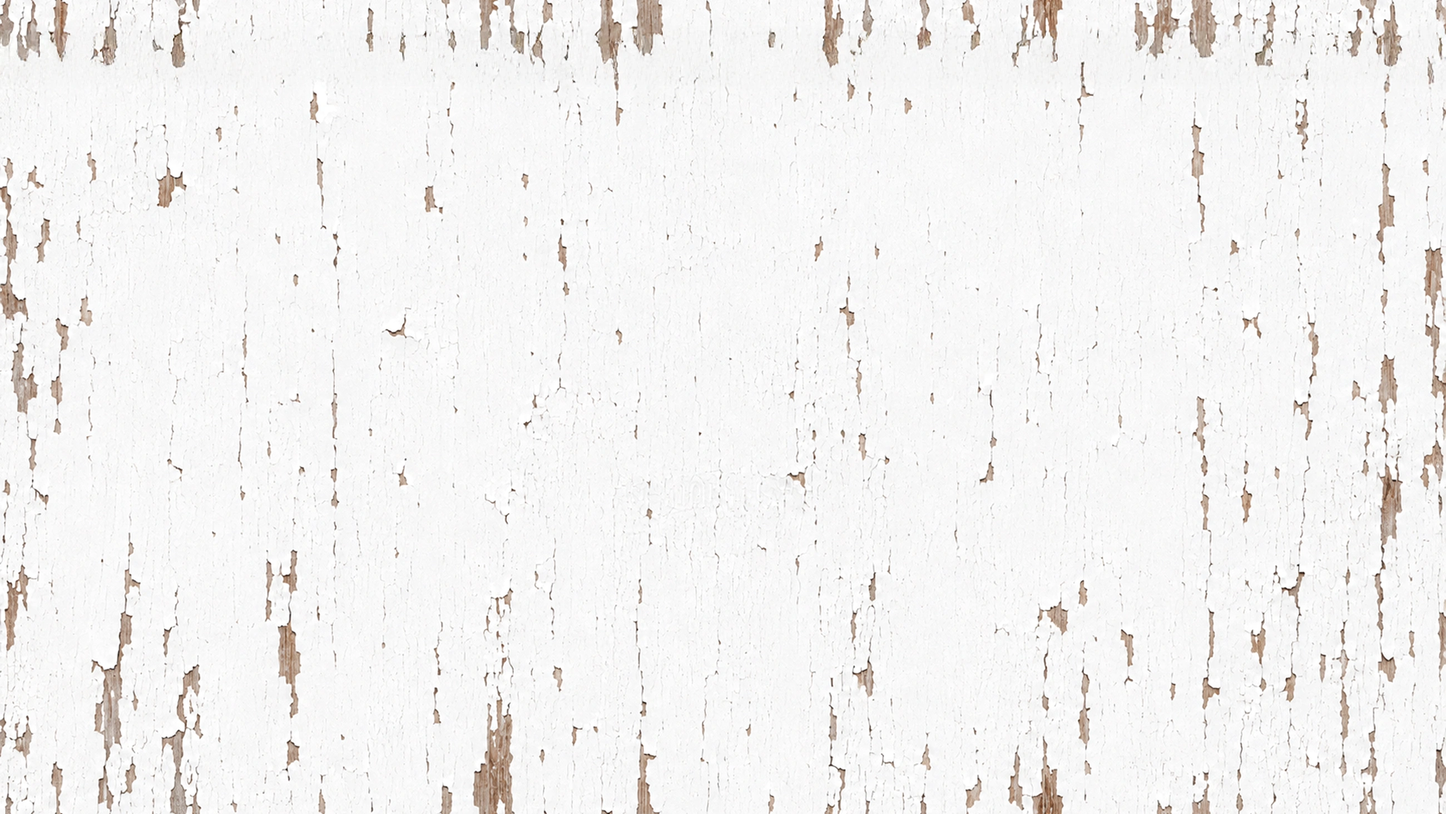
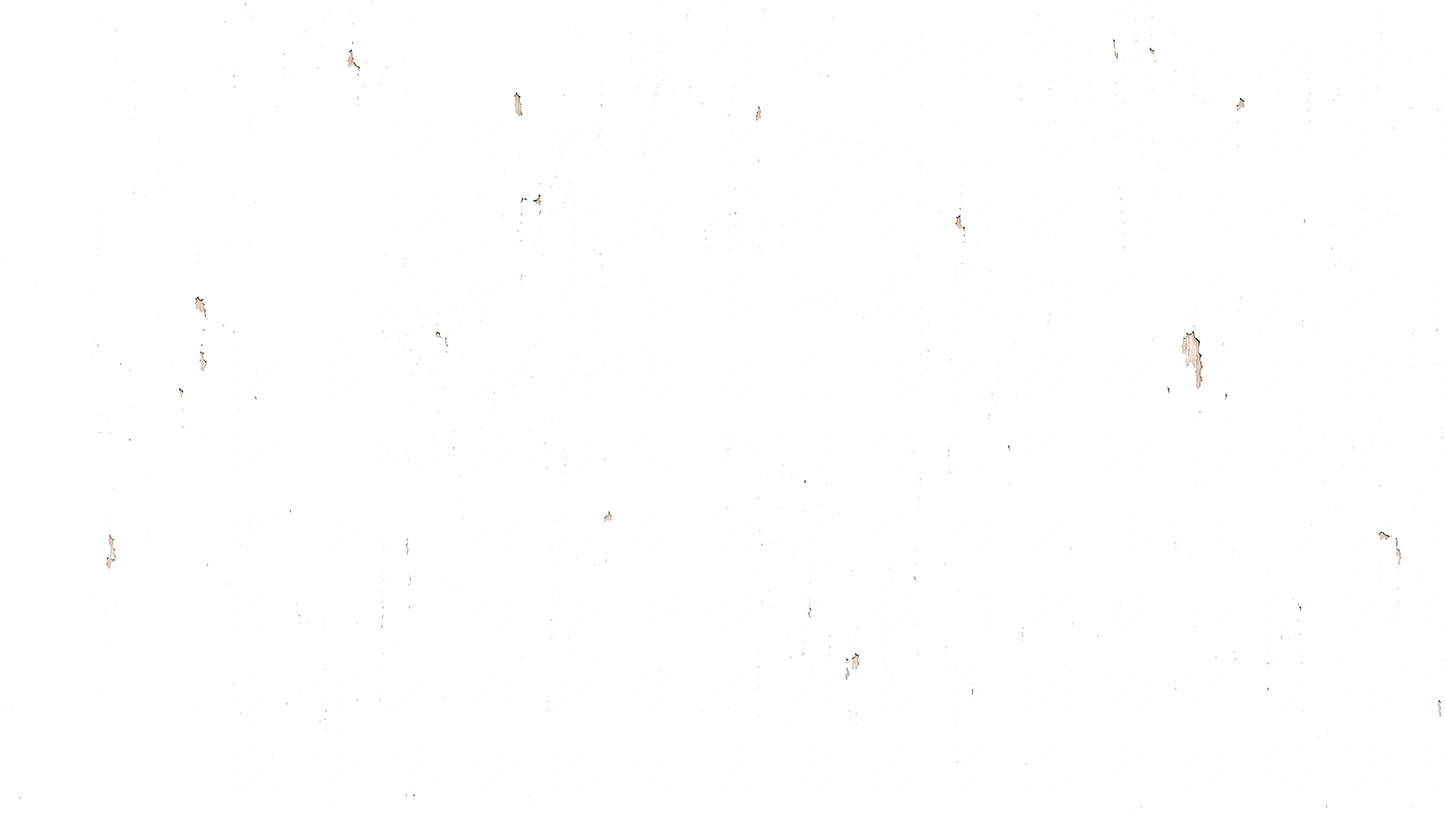
wear images change

diff --git a/drift-boot.js b/drift-boot.js
@@ -157,7 +157,7 @@
 
        ROLLED AGAIN WHILE ACTIVE, IT WEARS. Every other event is
        skipped when already active; this one climbs instead, to a
-       maximum of four. Climbing out of a colour DROPS the colour:
+       maximum of WEAR_MAX. Climbing out of a colour DROPS the colour:
        the tiles are opaque, so there is nothing underneath to keep.
 
        REMOVED, IT WEARS BACK DOWN. A removal roll takes one level
@@ -166,8 +166,8 @@
        kept. The page is simply undrifted again until the next
        spawn, which may land on a colour or on wear.
 
-       That makes it far stickier than anything else here: four
-       removals to die rather than one. And the consequence is the
+       That makes it far stickier than anything else here: as many
+       removals to die as it has levels, rather than one. And the consequence is the
        good part -- removal is frequent before the breaking point
        and rare after it, so wear can barely climb early and
        accumulates steadily once things start sticking. The
@@ -184,23 +184,40 @@
         return pool;
       },
       props: function (record, state) {
-        /* A colour spawn carries no wear. A `wear` spawn starts at
-           one. The generic spawn path sets level 1 for any leveled
-           event, so this corrects it. */
-        if (record.variant !== "wear") {
-          record.level = 0;
-        } else {
-          record.level = Math.max(1, record.level || 1);
-          /* No colour underneath. Wear is its own state, not a
-             shade wearing away -- so when it clears the event is
-             simply over, and the next spawn starts fresh. */
-          delete record.variant;
-        }
+        /* This runs on BOTH paths -- a fresh spawn and a level-up --
+           so it must be able to tell them apart.
 
-        /* Never climb past what has downloaded. */
+           A fresh spawn still carries the variant the roll picked.
+           A level-up has no variant at all: it was dropped the
+           moment wear started. Reading `variant !== "wear"` alone
+           would therefore reset every climb back to zero, which is
+           exactly what it did. */
+
+        if (record.variant === "wear") {
+          /* First stage of the paint failing. No colour underneath:
+             the tiles are opaque and nothing is kept. */
+          delete record.variant;
+          record.level = Math.max(1, record.level || 1);
+
+        } else if (record.variant) {
+          /* A colour spawn. The generic path sets level 1 for any
+             leveled event, so this corrects it. */
+          record.level = 0;
+        }
+        /* else: no variant means it is already worn. Leave the
+           level exactly as the climb set it. */
+
+        /* Never claim a tile that has not arrived. */
         var have = wearAvailable(state);
         if (record.level > have) record.level = have;
         if (record.level > WEAR_MAX) record.level = WEAR_MAX;
+
+        /* Capped to nothing and no colour to fall back on -- give it
+           one, or the event would be active and invisible. */
+        if (!record.level && !record.variant) {
+          record.variant = ["paper", "bone", "linen"][
+            Math.floor(Math.random() * 3)];
+        }
 
         return null;         /* nothing to write; CSS reads the level */
       }
@@ -554,7 +571,9 @@
      --------------------------------------------------------------- */
 
   var WEAR_PATH = "wear/";
-  var WEAR_MAX = 4;
+  /* How many wear tiles exist. Add a file, raise this number, add a
+   rule in drift.css -- nothing else knows the count. */
+var WEAR_MAX = 5;
 
   function wearAvailable(state) {
     var ready = state.wearReady || [];
@@ -862,10 +881,17 @@
     if (existing && def.level) {
       /* Wear replaces colour rather than covering it. Once the
          paint starts failing the shade is gone for good; the next
-         spawn after this one clears starts from nothing. */
-      if (!existing.level) delete existing.variant;
+         spawn after this one clears starts from nothing.
 
-      existing.level = (existing.level || 1) + 1;
+         Climbing out of level 0 lands on 1, not 2 -- `|| 1` would
+         treat a colour-only record as though it were already worn
+         and skip the first stage entirely. */
+      if (!existing.level) {
+        delete existing.variant;
+        existing.level = 1;
+      } else {
+        existing.level += 1;
+      }
 
       /* Re-roll, or the level climbs while the page looks the same:
          the properties were built for the old level and know

diff --git a/drift.css b/drift.css
@@ -445,6 +445,7 @@ html[data-l-bg-drift="1"] body { background-image: url("wear/wear1.webp"); }
 html[data-l-bg-drift="2"] body { background-image: url("wear/wear2.webp"); }
 html[data-l-bg-drift="3"] body { background-image: url("wear/wear3.webp"); }
 html[data-l-bg-drift="4"] body { background-image: url("wear/wear4.webp"); }
+html[data-l-bg-drift="5"] body { background-image: url("wear/wear5.webp"); }
 
 
 /* link-decoration
